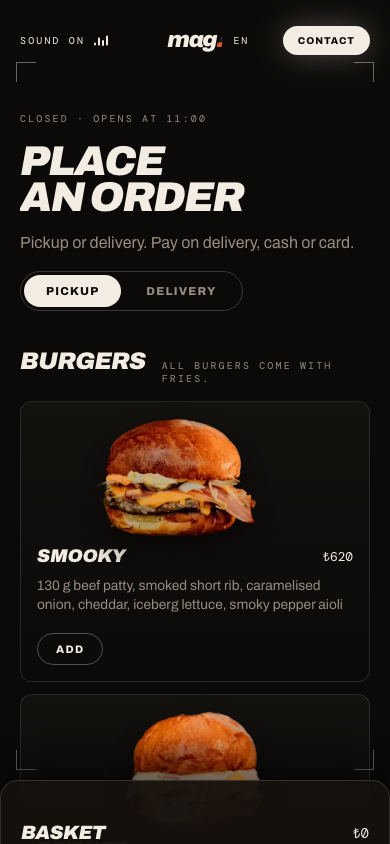
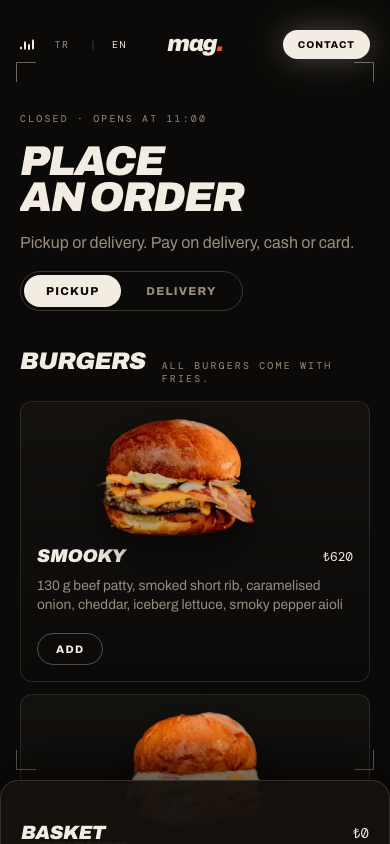
Topbar: TR|EN sola (ses anahtarının yanı), mobilde ses etiketi gizli — logoyla çakışma ve a11y target-size

diff --git a/components/chrome/Chrome.tsx b/components/chrome/Chrome.tsx
@@ -13,13 +13,15 @@ export default function Chrome({ locale }: { locale: Locale }) {
   return (
     <>
       <header className="topbar">
-        <SoundToggle onLabel={c.soundOn} offLabel={c.soundOff} />
+        <div className="navL">
+          <SoundToggle onLabel={c.soundOn} offLabel={c.soundOff} />
+          <LangSwitch locale={locale} labels={c.lang} />
+        </div>
         <Link href={localePath(locale, "/")} className="mark" aria-label={`${c.brand}.`}>
           {c.brand}
           <i>.</i>
         </Link>
         <nav className="navR">
-          <LangSwitch locale={locale} labels={c.lang} />
           <Link href={localePath(locale, "/siparis")} className="menu" prefetch={false} aria-label={c.menu}>
             <span className="grid2" aria-hidden="true">
               <s />

diff --git a/components/chrome/chrome.css b/components/chrome/chrome.css
@@ -85,10 +85,14 @@
   font-style: italic;
   color: var(--accent);
 }
+.navL,
 .navR {
   display: flex;
   align-items: center;
   gap: 16px;
+}
+.navL {
+  gap: 18px;
 }
 .menu {
   display: flex;
@@ -136,6 +140,16 @@
   }
   .menu span {
     display: none;
+  }
+  /* dar ekranda ortadaki logoyla çakışmasın: ses etiketi gizli (aria-label kalır), TR|EN sıkı */
+  .onbox > span:first-child {
+    display: none;
+  }
+  .navL {
+    gap: 10px;
+  }
+  .navR {
+    gap: 12px;
   }
 }
 
